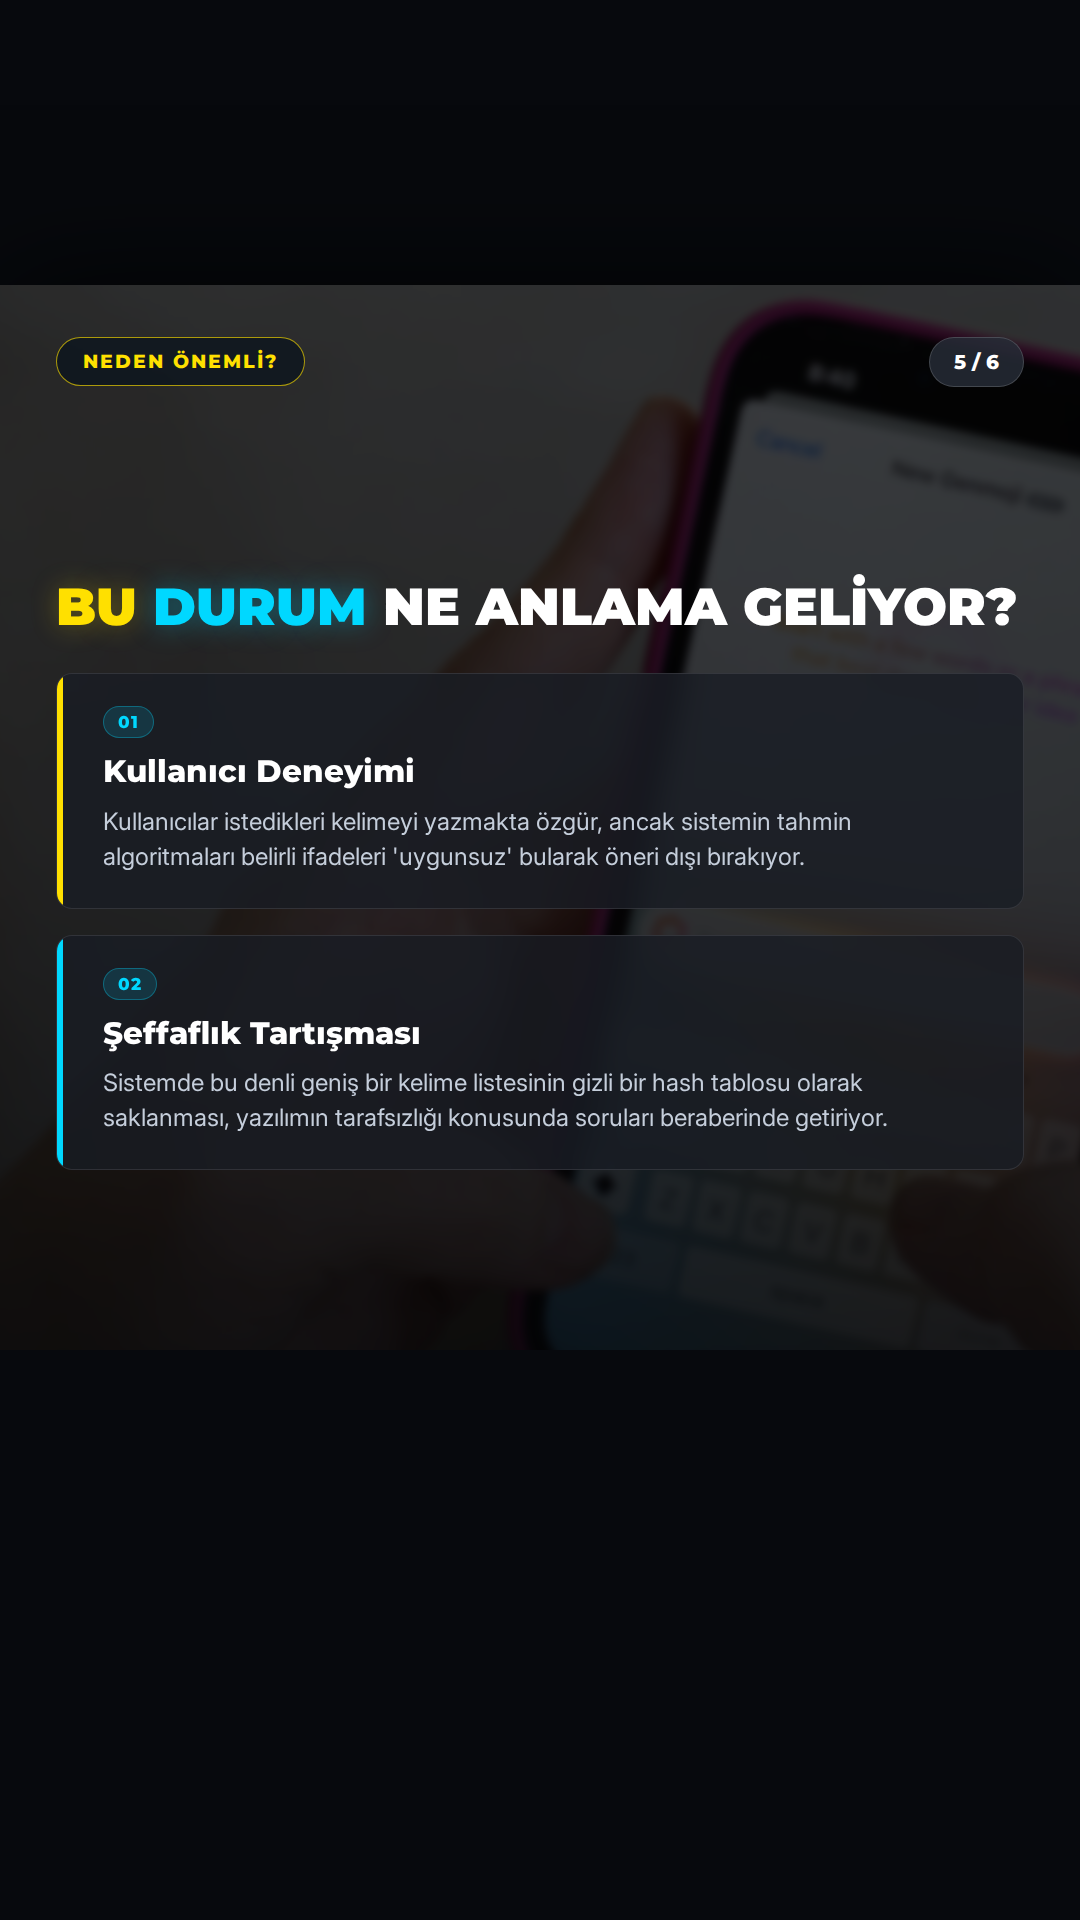
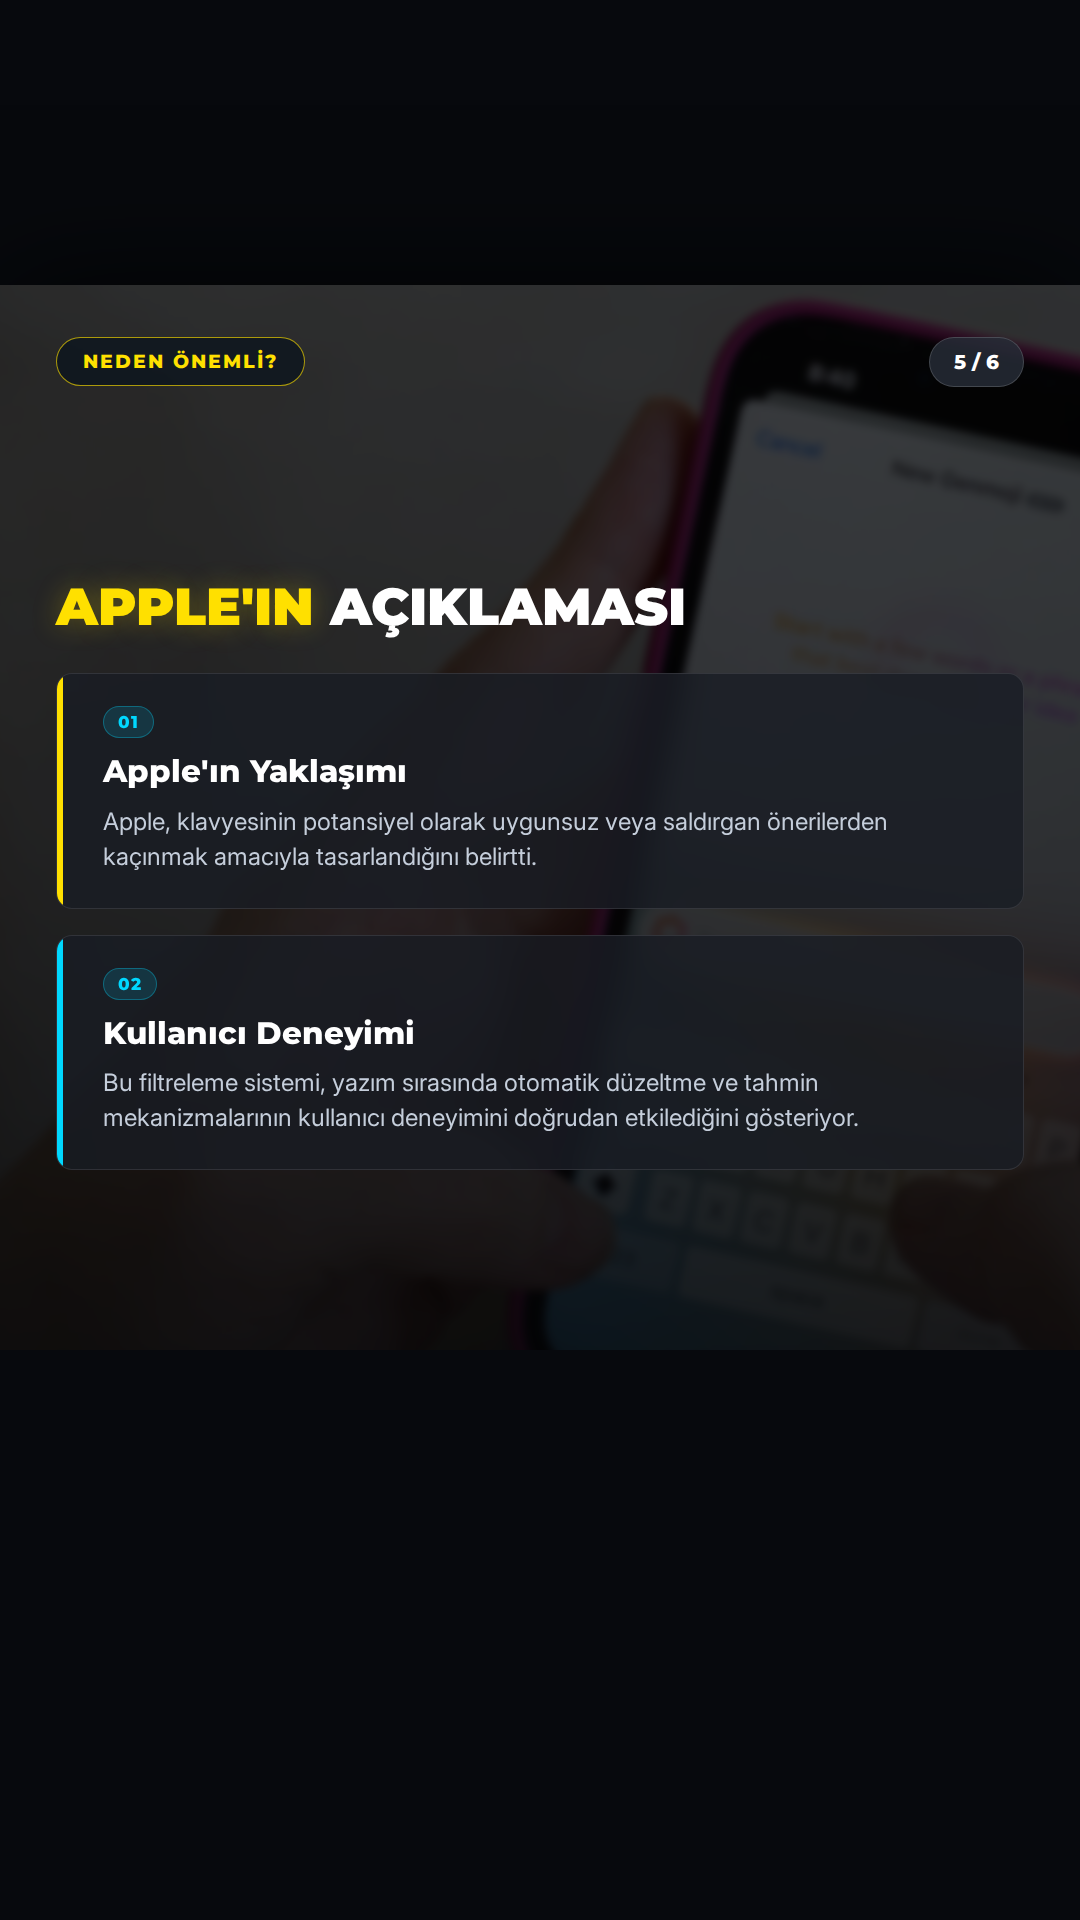
🤖 post: 2026-11-06 12:00 – Apple has a secret list of banned autocomplete phrases inclu

diff --git a/output/2026-11-06/02-1200-apple-has-a-secret-list-of-banned-autocomplete-p/verification.md b/output/2026-11-06/02-1200-apple-has-a-secret-list-of-banned-autocomplete-p/verification.md
@@ -3,7 +3,7 @@
 **Haber:** Apple has a secret list of banned autocomplete phrases including ‘dictator Trump’ and ‘covid is a hoax’
 **Canonical URL:** https://www.theverge.com/tech/1028663/apple-ios-keyboard-blocked-words-autocomplete
 **Kaynaklar:** The Verge, Wired, TechCrunch, Engadget
-**Kontrol zamanı:** 2026-11-06T18:23:06+03:00
+**Kontrol zamanı:** 2026-11-06T18:33:44+03:00
 **Sonuç:** ✅ YAYINLANABİLİR
 
 ---
@@ -15,24 +15,28 @@
 - **Kanıtlar:**
   - [https://www.theverge.com/tech/1028663/apple-ios-keyboard-blocked-words-autocomplete](https://www.theverge.com/tech/1028663/apple-ios-keyboard-blocked-words-autocomplete)
     > A researcher found over 100,000 words and phrases in “every major language” that are blocked from autocomplete and swipe-type in iOS, Reuters reports. The researcher, Derik Kauffman
+  - [https://www.theverge.com/tech/1028663/apple-ios-keyboard-blocked-words-autocomplete](https://www.theverge.com/tech/1028663/apple-ios-keyboard-blocked-words-autocomplete)
+    > A researcher found over 100,000 words and phrases in “every major language” that are blocked from autocomplete and swipe-type in iOS, Reuters reports. The researcher, Derik Kauffman, says you can still type the words on the blocklist one letter at a time.
 
-### 2. iOS klavyesi, engellenen kelimeleri tek tek harf yazarak yazmaya izin verirken, tahmin metni önerilerinde göstermiyor.
+### 2. iOS klavyesi, engellenen kelimeleri tahmin metni olarak önermiyor ve kaydırarak yazma sırasında bu kelimeleri otomatik olarak değiştirebiliyor.
 - **Karar:** ✅ `supported`
 - **Kanıtlar:**
   - [https://www.theverge.com/tech/1028663/apple-ios-keyboard-blocked-words-autocomplete](https://www.theverge.com/tech/1028663/apple-ios-keyboard-blocked-words-autocomplete)
-    > The researcher, Derik Kauffman, says you can still type the words on the blocklist one letter at a time. But they won’t pop up as predictive text suggestions
+    > But they won’t pop up as predictive text suggestions and iOS’s keyboard may automatically alter them when swipe-typing, like changing “left wing conspiracy” to “left wrong conspiracy.”
 
-### 3. iOS klavyesinin engellediği ifadeler arasında 'dictator Trump', 'covid is a hoax', 'illegal immigrant', 'sleepy Joe' ve 'left wing conspiracy' gibi siyasi içerikli ifadeler yer alıyor.
+### 3. Engellenen ifadeler listesinde 'illegal immigrant', 'dictator Trump', 'sleepy Joe', 'covid was a hoax' ve 'left wing conspiracy' gibi siyasi içerikli ifadeler yer alıyor.
 - **Karar:** ✅ `supported`
 - **Kanıtlar:**
   - [https://www.theverge.com/tech/1028663/apple-ios-keyboard-blocked-words-autocomplete](https://www.theverge.com/tech/1028663/apple-ios-keyboard-blocked-words-autocomplete)
     > But it also contains political phrases like “illegal immigrant,” “dictator Trump,” “sleepy Joe,” “covid was a hoax,” and “left wing conspiracy”
 
-### 4. Derik Kauffman, engellenen kelime listesini ve farklı dillere ait alt listeleri internette yayınladı.
+### 4. Engellenen ifadeler listesinde 'Santa isn’t real' ve 'iMessage isn’t working' gibi daha az tartışmalı ifadeler de bulunuyor.
 - **Karar:** ✅ `supported`
 - **Kanıtlar:**
   - [https://www.theverge.com/tech/1028663/apple-ios-keyboard-blocked-words-autocomplete](https://www.theverge.com/tech/1028663/apple-ios-keyboard-blocked-words-autocomplete)
-    > Kauffman posted the full list online, including the individual lists for different languages.
+    > as well as some less controversial phrases like “Santa isn’t real” and “iMessage isn’t working.”
+  - [https://www.theverge.com/tech/1028663/apple-ios-keyboard-blocked-words-autocomplete](https://www.theverge.com/tech/1028663/apple-ios-keyboard-blocked-words-autocomplete)
+    > But it also contains political phrases like “illegal immigrant,” “dictator Trump,” “sleepy Joe,” “covid was a hoax,” and “left wing conspiracy” as well as some less controversial phrases like “Santa isn’t real” and “iMessage isn’t working.”
 
 ### 5. Derik Kauffman, engellenen kelime listesini bulmak için OpenAI'ın Codex ve Anthropic'in Claude Code araçlarını kullandı.
 - **Karar:** ✅ `supported`
@@ -40,23 +44,23 @@
   - [https://www.theverge.com/tech/1028663/apple-ios-keyboard-blocked-words-autocomplete](https://www.theverge.com/tech/1028663/apple-ios-keyboard-blocked-words-autocomplete)
     > According to Reuters, Kauffman used OpenAI’s Codex and Anthropic’s Claude Code to help find the list “deep in the bowels” of iOS.
 
-### 6. Kauffman, engellenen kelime listesinin iOS içerisinde bir hash tablosu olarak saklandığını ve bunu metne dönüştürdüğünü belirtti.
+### 6. Kauffman'a göre, iOS'taki engellenen ifadeler listesi bir hash tablosu olarak saklanıyordu.
 - **Karar:** ✅ `supported`
 - **Kanıtlar:**
   - [https://www.theverge.com/tech/1028663/apple-ios-keyboard-blocked-words-autocomplete](https://www.theverge.com/tech/1028663/apple-ios-keyboard-blocked-words-autocomplete)
     > On his website, Kauffman says the phrase list was stored as a hash table, which he was able to convert back to text.
 
-### 7. Apple, klavyesinin potansiyel olarak uygunsuz veya saldırgan önerilerden kaçınmak için tasarlandığını ancak kullanıcıların istediklerini yazabildiklerini açıkladı.
-- **Karar:** ✅ `supported`
-- **Kanıtlar:**
-  - [https://www.theverge.com/tech/1028663/apple-ios-keyboard-blocked-words-autocomplete](https://www.theverge.com/tech/1028663/apple-ios-keyboard-blocked-words-autocomplete)
-    > Apple told Reuters that its keyboard is designed to avoid potentially inappropriate or offensive suggestions, but iPhone users can still type in what they want, or override predictive text suggestions.
-
-### 8. Başka bir araştırmacı, Reuters'a verdiği demeçte aynı engellenen kelime listesine bağımsız olarak ulaştığını doğruladı.
+### 7. Başka bir araştırmacı, Reuters'a verdiği demeçte aynı listeyi bağımsız olarak elde edebildiğini doğruladı.
 - **Karar:** ✅ `supported`
 - **Kanıtlar:**
   - [https://www.theverge.com/tech/1028663/apple-ios-keyboard-blocked-words-autocomplete](https://www.theverge.com/tech/1028663/apple-ios-keyboard-blocked-words-autocomplete)
     > Another researcher told Reuters they were able to independently obtain the same list.
+
+### 8. Apple, klavyesinin potansiyel olarak uygunsuz veya saldırgan önerilerden kaçınmak için tasarlandığını belirtti.
+- **Karar:** ✅ `supported`
+- **Kanıtlar:**
+  - [https://www.theverge.com/tech/1028663/apple-ios-keyboard-blocked-words-autocomplete](https://www.theverge.com/tech/1028663/apple-ios-keyboard-blocked-words-autocomplete)
+    > Apple told Reuters that its keyboard is designed to avoid potentially inappropriate or offensive suggestions
 
 ---
 
@@ -65,13 +69,13 @@
 | İddia | 1. Tur | 2. Tur | Nihai |
 |-------|--------|--------|-------|
 | Araştırmacı Derik Kauffman, iOS'ta otomatik tamamlama ve kay | supported | supported | supported |
-| iOS klavyesi, engellenen kelimeleri tek tek harf yazarak yaz | supported | supported | supported |
-| iOS klavyesinin engellediği ifadeler arasında 'dictator Trum | supported | supported | supported |
-| Derik Kauffman, engellenen kelime listesini ve farklı diller | supported | supported | supported |
+| iOS klavyesi, engellenen kelimeleri tahmin metni olarak öner | supported | supported | supported |
+| Engellenen ifadeler listesinde 'illegal immigrant', 'dictato | supported | supported | supported |
+| Engellenen ifadeler listesinde 'Santa isn’t real' ve 'iMessa | supported | supported | supported |
 | Derik Kauffman, engellenen kelime listesini bulmak için Open | supported | supported | supported |
-| Kauffman, engellenen kelime listesinin iOS içerisinde bir ha | supported | supported | supported |
+| Kauffman'a göre, iOS'taki engellenen ifadeler listesi bir ha | supported | supported | supported |
+| Başka bir araştırmacı, Reuters'a verdiği demeçte aynı listey | supported | supported | supported |
 | Apple, klavyesinin potansiyel olarak uygunsuz veya saldırgan | supported | supported | supported |
-| Başka bir araştırmacı, Reuters'a verdiği demeçte aynı engell | supported | supported | supported |
 
 ## Kaynak Metinleri
 

diff --git a/output/2026-11-06/02-1200-apple-has-a-secret-list-of-banned-autocomplete-p/captions.md b/output/2026-11-06/02-1200-apple-has-a-secret-list-of-banned-autocomplete-p/captions.md
@@ -2,37 +2,29 @@
 
 ## INSTAGRAM
 
-iOS klavyenizde bazı kelimelerin neden otomatik tamamlanmadığını hiç merak ettiniz mi? 📱
+iOS klavyenizde aslında nelerin engellendiğini biliyor musunuz? Apple'ın klavye önerilerinde 100 binden fazla ifadeyi sessizce engellediği ortaya çıktı. Araştırmacı Derik Kauffman'ın keşfettiği bu liste, siyasi terimlerden günlük ifadelere kadar geniş bir yelpazeyi kapsıyor. Apple, bu filtrelerin kullanıcı deneyimini korumak ve uygunsuz içerikleri engellemek için tasarlandığını belirtiyor. Sizce bu filtreleme gerekli mi, yoksa ifade özgürlüğünü kısıtlıyor mu? Kaynak: The Verge, Wired
 
-Araştırmacı Derik Kauffman, Apple'ın iOS klavyesinde 100.000'den fazla kelime ve ifadenin otomatik tamamlama sisteminden gizlice engellendiğini ortaya çıkardı. Bu liste, siyasi ifadelerden tartışmalı terimlere kadar geniş bir yelpazeyi kapsıyor.
-
-Sistem, bu kelimeleri tamamen yasaklamıyor; yani harf harf yazarak kullanabiliyorsunuz. Ancak tahmin algoritmaları, bu ifadeleri 'uygunsuz' bularak öneri listesinden çıkarıyor.
-
-Bu durum, yazılımın tarafsızlığı ve şeffaflığı konusunda yeni bir tartışma başlattı. Sizce klavye tahminleri kullanıcıyı yönlendirmeli mi, yoksa tamamen tarafsız mı kalmalı?
-
-Kaynak: The Verge, Wired
-
-#Apple #iOS #Teknoloji #Gizlilik #Güvenlik #Yazılım #iPhone #TechNews #Privacy #CyberSecurity #TeknoPusula
+#Apple #iOS #Teknoloji #Gizlilik #Güvenlik #iPhone #TechNews #DerikKauffman #DijitalDünya #TeknoPusula
 
 ## TIKTOK
 
-iPhone klavyenizde bazı kelimeler neden çıkmıyor? 🧐 Apple'ın otomatik tamamlama sisteminde 100.000'den fazla kelimenin gizlice engellendiği ortaya çıktı! Siyasi ifadelerden tartışmalı başlıklara kadar sistem bunları 'uygunsuz' bulup öneri dışı bırakıyor. Yazabiliyorsunuz ama sistem size önermiyor. Sizce bu bir sansür mü yoksa güvenlik önlemi mi? Yorumlarda buluşalım! Kaynak: The Verge, Wired
+iOS klavyenizde engellenen 100.000+ kelime! 📱 Apple'ın klavye önerilerinde neleri gizlediğini biliyor muydunuz? Siyasi ifadelerden günlük cümlelere kadar devasa bir filtre listesi ortaya çıktı. Apple bunu "kullanıcı deneyimi" olarak açıklıyor. Sizce bu bir güvenlik önlemi mi yoksa kısıtlama mı? Kaynak: The Verge, Wired
 
-#Apple #iPhone #iOS #Teknoloji #Gizlilik #TechTok
+#Apple #iOS #Teknoloji #iPhone #Gizlilik #TeknoPusula
 
 ## X
 
-iOS klavyesinde 100.000'den fazla kelime gizlice engellenmiş! Apple'ın otomatik tamamlama sistemi, siyasi ve tartışmalı ifadeleri öneri listesinden çıkarıyor. Yazılımın tarafsızlığı tartışma konusu. Sizce klavye tahminleri tarafsız mı olmalı? Kaynak: The Verge, Wired
+iOS klavyesinde 100 binden fazla ifadenin engellendiği ortaya çıktı! 📱 Apple, bu filtrelerin uygunsuz içerikleri önlemek için tasarlandığını belirtiyor. Siyasi terimlerden günlük ifadelere kadar geniş bir liste var. Sizce bu gerekli mi? Kaynak: The Verge, Wired
 
 #Apple #iOS
 
 ## THREADS
 
-iOS Klavyesinde Gizli 'Engelli' Kelimeler ⌨
+iOS Klavyesinde Gizli Filtreler ⌨
 
-Apple'ın otomatik tamamlama sisteminde 100.000'den fazla kelimenin gizlice kısıtlandığı ortaya çıktı. Sistem, siyasi ifadeler dahil birçok kelimeyi tahmin önerilerinde göstermiyor.
+Apple'ın klavye önerilerinde 100 binden fazla ifadeyi engellediği ortaya çıktı. Siyasi terimlerden günlük ifadelere kadar uzanan bu liste, cihazda hash tablosu olarak saklanıyor.
 
-Bu durum, yazılımın tarafsızlığı konusunda soru işaretleri yaratıyor. Sizce klavye tahminleri kullanıcıyı yönlendirmeli mi, yoksa tamamen tarafsız mı kalmalı? 💭
+Sizce bu filtreleme gerekli mi, yoksa ifade özgürlüğünü kısıtlıyor mu? 💭
 
 Kaynak: The Verge, Wired
 
@@ -40,24 +32,12 @@ Kaynak: The Verge, Wired
 
 ## LINKEDIN
 
-Yazılım etiği ve kullanıcı deneyimi arasındaki ince çizgi: Apple'ın iOS klavye algoritması üzerine yeni bir tartışma.
+Apple'ın iOS klavyesinde uyguladığı içerik filtreleme mekanizması üzerine yeni bir araştırma yayınlandı. Araştırmacı Derik Kauffman, sistemin 100 binden fazla ifadeyi otomatik tamamlama ve kaydırarak yazma özelliklerinden filtrelediğini ortaya koydu. Apple, bu yaklaşımın kullanıcı deneyimini korumak ve potansiyel olarak saldırgan içerikleri engellemek adına bir güvenlik önlemi olduğunu savunuyor. Dijital platformlarda "güvenlik" ve "ifade özgürlüğü" dengesi, teknoloji dünyasının en çok tartıştığı konuların başında gelmeye devam ediyor. Sizin bu konudaki görüşünüz nedir? Kaynak: The Verge, Wired
 
-Araştırmacı Derik Kauffman tarafından yapılan analiz, iOS klavyesinde 100.000'den fazla kelime ve ifadenin otomatik tamamlama sisteminden gizlice kısıtlandığını ortaya koydu. 'Uygunsuz' veya 'saldırgan' içeriklerden kaçınmak amacıyla uygulanan bu filtreleme, siyasi ifadeleri de kapsıyor.
-
-Bu durum, teknoloji şirketlerinin algoritmik tarafsızlık ve şeffaflık sorumluluklarını bir kez daha gündeme getiriyor. Kullanıcı deneyimini korumak ile bilgi akışını yönetmek arasındaki denge nasıl kurulmalı?
-
-Kaynak: The Verge, Wired
-
-#Teknoloji #Yazılım #Apple #Algoritma #DijitalEtik
+#Apple #Teknoloji #DijitalGüvenlik #iOS #VeriGizliliği
 
 ## FACEBOOK
 
-iPhone kullanıcılarını şaşırtan bir detay ortaya çıktı! 📱
+iOS klavyenizde aslında nelerin engellendiğini biliyor musunuz? Apple'ın klavye önerilerinde 100 binden fazla ifadeyi sessizce engellediği ortaya çıktı. Araştırmacı Derik Kauffman'ın keşfettiği bu liste, siyasi terimlerden günlük ifadelere kadar geniş bir yelpazeyi kapsıyor. Apple, bu filtrelerin kullanıcı deneyimini korumak için tasarlandığını belirtiyor. Sizce bu filtreleme gerekli mi, yoksa ifade özgürlüğünü kısıtlıyor mu? Kaynak: The Verge, Wired
 
-Apple'ın iOS klavyesinde 100.000'den fazla kelimenin otomatik tamamlama sisteminden gizlice engellendiği keşfedildi. Siyasi ifadelerden tartışmalı terimlere kadar geniş bir liste, sistem tarafından 'uygunsuz' bulunarak öneri dışı bırakılıyor.
-
-Kullanıcılar bu kelimeleri yazmakta özgür olsa da, sistemin bu kelimeleri tahmin etmemesi şeffaflık tartışmalarını beraberinde getirdi. Sizce klavye tahminleri kullanıcıyı yönlendirmeli mi, yoksa tamamen tarafsız mı kalmalı?
-
-Kaynak: The Verge, Wired
-
-#Apple #iOS #Teknoloji #Gizlilik #iPhone
+#Apple #iOS #Teknoloji #Gizlilik #TeknoPusula
